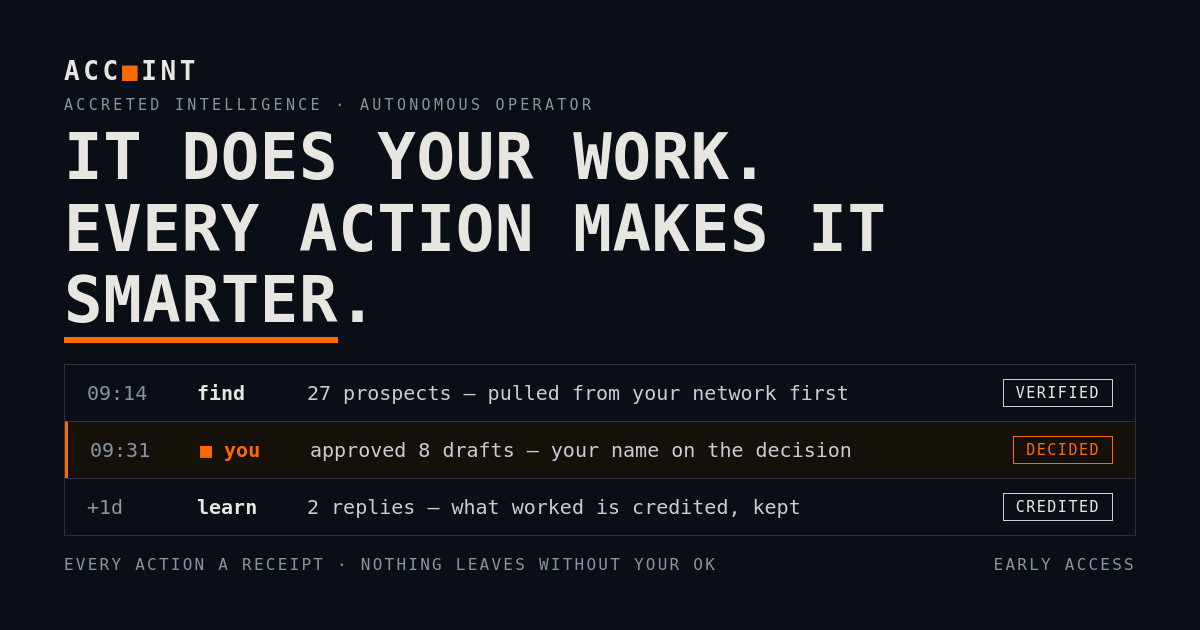
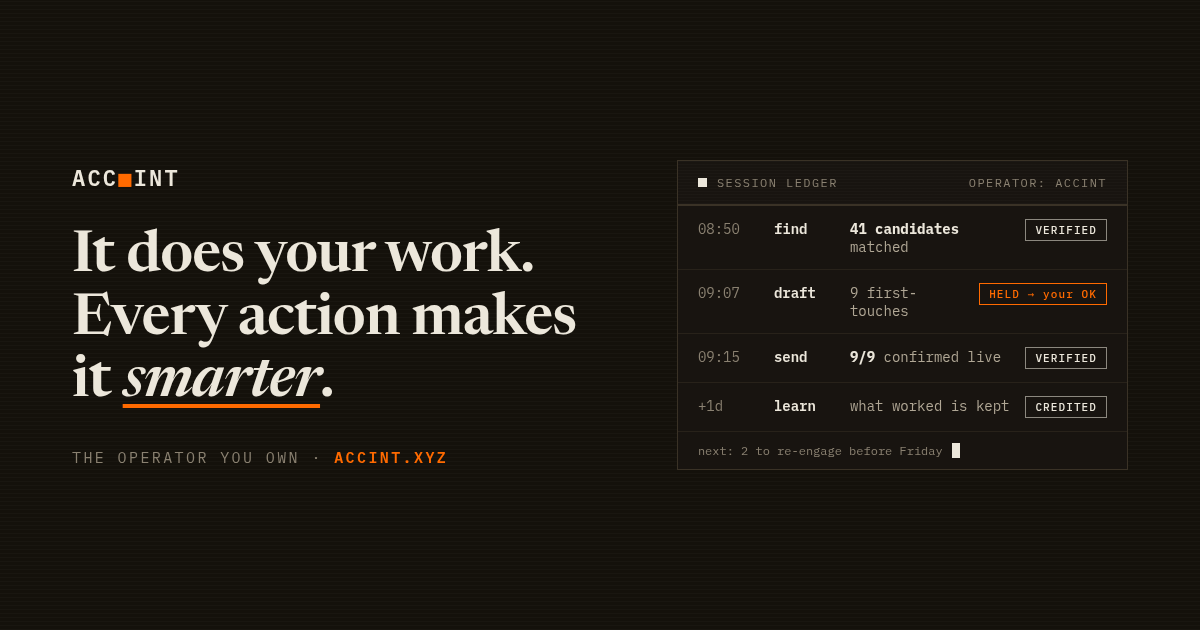
pass 16: finance ops audience + og.png in the live identity
- hero ledger 5th tab 'finance ops': AR aging run, scanned-remittance
  reconciliation (vision in its finance home), 7 HELD nudges, books true,
  tuesday lesson credited, late-fee blast REFUSED at the relationship floor
- 4th week-nine story: RUN1 41min reasoned vs RUN9 5min replay, Halvern
  pays-on-the-15th KNOWN, learned rows (tuesday nudges / soft tone for
  at-risk 2x / never inside a close week)
- jobs lede adds 'finance teams getting invoices paid'; step-2 option
  renamed 'finance & back-office ops' in both forms
- og.png regenerated 1200x630 in the pass-15 identity (warm paper, serif
  headline, mini session ledger, accint.xyz) replacing the stale navy card
- playwright: zero overflow 360/390; finance tab + story panel verified live

Built-with: AccInt https://accint.xyz

diff --git a/index.html b/index.html
@@ -531,7 +531,7 @@ body.anim .ledger-type{animation:rise .5s 3.45s both;}
               <button type="button" class="opt" role="radio" aria-checked="false">fractional / agency client ops</button>
               <button type="button" class="opt" role="radio" aria-checked="false">founder-led B2B sales</button>
               <button type="button" class="opt" role="radio" aria-checked="false">research &amp; monitoring briefs</button>
-              <button type="button" class="opt" role="radio" aria-checked="false">back-office portal ops (no-API)</button>
+              <button type="button" class="opt" role="radio" aria-checked="false">finance &amp; back-office ops</button>
               <button type="button" class="opt" role="radio" aria-checked="false">something else</button>
             </div>
           </div>
@@ -551,6 +551,7 @@ body.anim .ledger-type{animation:rise .5s 3.45s both;}
         <button class="ltab" aria-pressed="false" data-s="clientops">client retainers</button>
         <button class="ltab" aria-pressed="false" data-s="sales">founder sales</button>
         <button class="ltab" aria-pressed="false" data-s="research">research briefs</button>
+        <button class="ltab" aria-pressed="false" data-s="finance">finance ops</button>
       </div>
       <div id="ledrows">
       <div class="row"><span class="t">08:50</span><span class="verb">find</span><span class="what"><b>41 candidates</b> matched the brief — your ATS first, then LinkedIn</span><span class="stamp ok">VERIFIED</span></div>
@@ -607,7 +608,8 @@ body.anim .ledger-type{animation:rise .5s 3.45s both;}
     <div class="tag">the same week, twice</div>
     <h2>Hand it the work once. <em>Watch week nine.</em></h2>
     <p class="body">Felt first where the pipeline <b>is</b> the revenue: agency recruiters billing
-    placements, fractional operators billing retainers, founders closing their own deals.</p>
+    placements, fractional operators billing retainers, founders closing their own deals,
+    finance teams getting invoices paid.</p>
     <div class="curvebox">
       <div class="curve" role="img" aria-label="The same task, run after run: reasoning effort and cost collapse to a near-instant, near-free verified replay">
         <div class="cbar"><div class="fill" style="height:72%"></div><h6>RUN 1</h6><span>reasons<br>every step</span></div>
@@ -621,6 +623,7 @@ body.anim .ledger-type{animation:rise .5s 3.45s both;}
       <button class="ltab" role="tab" id="stab-rec" aria-selected="true" aria-controls="spanel-rec">agency recruiting</button>
       <button class="ltab" role="tab" id="stab-ops" aria-selected="false" aria-controls="spanel-ops" tabindex="-1">client retainers</button>
       <button class="ltab" role="tab" id="stab-sales" aria-selected="false" aria-controls="spanel-sales" tabindex="-1">founder sales</button>
+      <button class="ltab" role="tab" id="stab-fin" aria-selected="false" aria-controls="spanel-fin" tabindex="-1">finance ops</button>
     </div>
     <div class="stories">
 
@@ -652,6 +655,37 @@ body.anim .ledger-type{animation:rise .5s 3.45s both;}
 <div class="row"><span class="t">run 1</span><span class="verb">learned</span><span class="what">your voice: short, one ask, zero exclamation marks</span><span class="stamp ok">CREDITED</span></div>
 <div class="row"><span class="t">run 3</span><span class="verb">learned</span><span class="what">replies 2.3× when you cite their thesis</span><span class="stamp ok">CREDITED</span></div>
 <div class="row"><span class="t">run 6</span><span class="verb">learned</span><span class="what">never pitch in their earnings week</span><span class="stamp ok">CREDITED</span></div>
+</div>
+</article>
+
+<article class="story" role="tabpanel" id="spanel-fin" aria-labelledby="stab-fin" tabindex="0" hidden>
+<div class="story-ask"><span class="who">you · finance ops · monday 06:02</span>“Get the overdue invoices moving this week — firm but warm, we keep these clients.”</div>
+<div class="runs">
+<div class="runcol">
+<div class="run-h"><b>RUN 1</b><span>week one</span></div>
+<div class="row"><span class="t">06:10</span><span class="verb">run</span><span class="what">into <b>the AR aging</b> — 5 client portals, 2 inboxes, the books</span><span class="stamp ok">VERIFIED</span></div>
+<div class="row"><span class="t">06:24</span><span class="verb">read</span><span class="what">31 open invoices reconciled — one payment matched from a <b>scanned remittance PDF</b></span><span class="stamp ok">VERIFIED</span></div>
+<div class="row"><span class="t">06:40</span><span class="verb">find</span><span class="what"><b>7 overdue</b> worth a nudge — 2 flagged “at-risk client, soften it”</span><span class="stamp ok">VERIFIED</span></div>
+<div class="row"><span class="t">06:55</span><span class="verb">draft</span><span class="what">7 nudges — each cites the invoice, the work delivered, the date agreed</span><span class="stamp hold">HELD → your OK</span></div>
+<div class="row"><span class="t">07:10</span><span class="verb">send</span><span class="what"><b>7/7 delivered</b> — each confirmed on the live thread</span><span class="stamp ok">VERIFIED</span></div>
+<div class="row"><span class="t">07:18</span><span class="verb">keep</span><span class="what">books true: status, promise date, next step — per invoice</span><span class="stamp ok">VERIFIED</span></div>
+<div class="run-f">41 min · every step reasoned</div>
+</div>
+<div class="nine" aria-hidden="true">9 weeks later</div>
+<div class="runcol r9">
+<div class="run-h"><b>RUN 9</b><span>week nine</span></div>
+<div class="row replay"><span class="t">06:05</span><span class="verb">replay</span><span class="what">the aging pull + reconciliation — verified steps from runs 1–8, re-checked not re-reasoned</span><span class="stamp re">REPLAYED</span></div>
+<div class="row memo"><span class="t">06:08</span><span class="verb">skip</span><span class="what"><b>Halvern</b> pays on the 15th, every month since run 3 — never nudged early</span><span class="stamp ok">KNOWN</span></div>
+<div class="row"><span class="t">06:11</span><span class="verb">draft</span><span class="what">3 nudges — the at-risk one rewritten softer, the way you did it in run 5</span><span class="stamp hold">HELD → your OK</span></div>
+<div class="row"><span class="t">06:15</span><span class="verb">send</span><span class="what">3/3 + books true — the rest was verified replay</span><span class="stamp ok">VERIFIED</span></div>
+<div class="row"><span class="t">+2d</span><span class="verb">learn</span><span class="what"><b>2 paid before Friday</b> — the soft-tone lesson earns its credit</span><span class="stamp ok">CREDITED</span></div>
+<div class="run-f">5 min at the desk · the receivables move themselves</div>
+</div>
+</div>
+<div class="learned"><span class="kl">what it now knows about your world</span>
+<div class="row"><span class="t">run 2</span><span class="verb">learned</span><span class="what">nudges land tuesdays, never fridays</span><span class="stamp ok">CREDITED</span></div>
+<div class="row"><span class="t">run 5</span><span class="verb">learned</span><span class="what">at-risk clients get the soft tone — 2× response</span><span class="stamp ok">CREDITED</span></div>
+<div class="row"><span class="t">run 7</span><span class="verb">learned</span><span class="what">never nudge inside a client’s close week</span><span class="stamp ok">CREDITED</span></div>
 </div>
 </article>
 
@@ -937,7 +971,7 @@ body.anim .ledger-type{animation:rise .5s 3.45s both;}
             <button type="button" class="opt" role="radio" aria-checked="false">fractional / agency client ops</button>
             <button type="button" class="opt" role="radio" aria-checked="false">founder-led B2B sales</button>
             <button type="button" class="opt" role="radio" aria-checked="false">research &amp; monitoring briefs</button>
-            <button type="button" class="opt" role="radio" aria-checked="false">back-office portal ops (no-API)</button>
+            <button type="button" class="opt" role="radio" aria-checked="false">finance &amp; back-office ops</button>
             <button type="button" class="opt" role="radio" aria-checked="false">something else</button>
           </div>
         </div>
@@ -1082,7 +1116,15 @@ posthog.init(PH_KEY,{api_host:PH_HOST,defaults:'2026-05-30',person_profiles:'ide
       ['06:40','file','brief on your desk; watch-list + tracker updated','ok','VERIFIED'],
       ['09:02','draft','1 reach-out the brief suggests — your call','hold','HELD → your OK'],
       ['+1d 06:00','learn','your feedback → next week’s brief gets sharper','ok','CREDITED'],
-      ['—','refuse','"pad it to look thorough" — receipts only, no filler','no','REFUSED',1]]}
+      ['—','refuse','"pad it to look thorough" — receipts only, no filler','no','REFUSED',1]]},
+    finance:{next:'next: 2 promise-dates due Thursday — watching',rows:[
+      ['06:10','run','into <b>the AR aging</b> — 5 client portals, 2 inboxes, the books','ok','VERIFIED'],
+      ['06:24','read','31 invoices reconciled — one payment matched from a <b>scanned remittance PDF</b>','ok','VERIFIED'],
+      ['06:40','find','<b>7 overdue</b> worth a nudge — 2 flagged "at-risk, soften it"','ok','VERIFIED'],
+      ['06:55','draft','7 nudges — each cites the invoice, the work, the date agreed','hold','HELD → your OK'],
+      ['07:18','keep','books true: status, promise date, next step — per invoice','ok','VERIFIED'],
+      ['+2d','learn','<b>4 paid within 48h</b> → the tuesday timing is credited','ok','CREDITED'],
+      ['—','refuse','"threaten late fees across the book" — relationship floor, never crossed','no','REFUSED',1]]}
   };
   var tabs=document.getElementById('ledtabs'),rowsEl=document.getElementById('ledrows'),typeEl=document.getElementById('ledtype');
   if(tabs&&rowsEl){